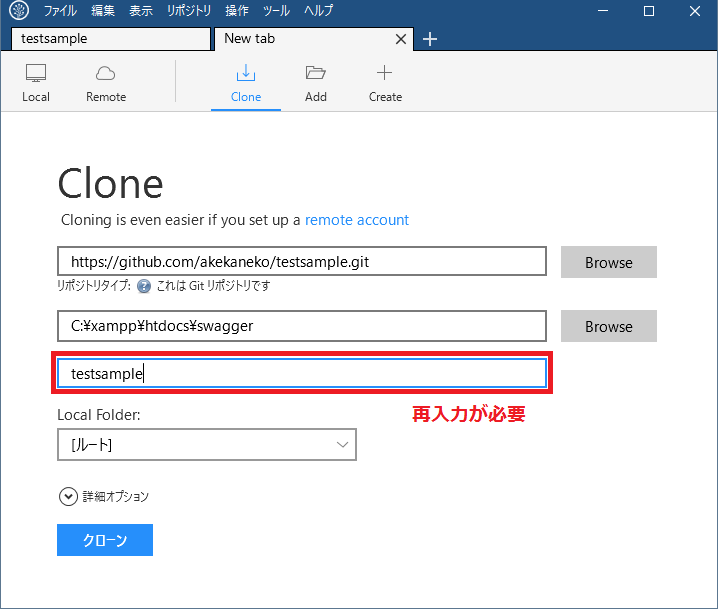
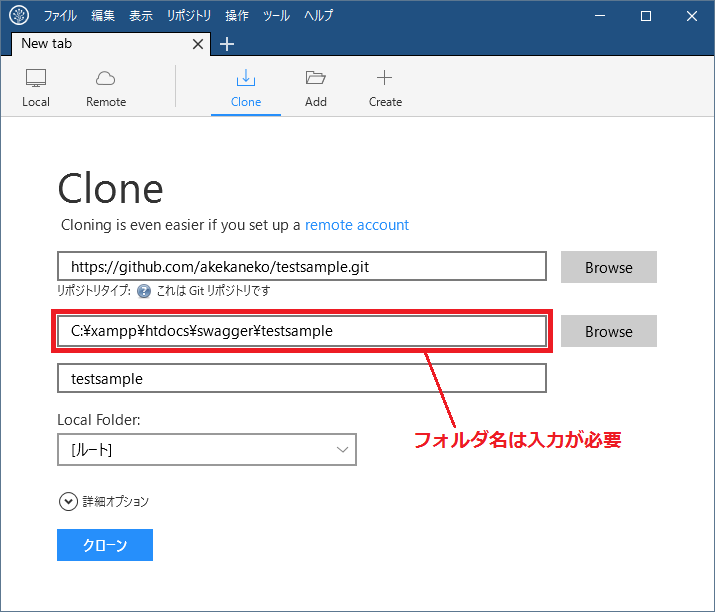
add mdfile, and image update #13 by kaneko

diff --git a/SourceTreeClone.md b/SourceTreeClone.md
@@ -1,0 +1,37 @@
+# クローンでフォルダのないパスを指定した場合
+
+SourceTreeでリポジトリをクローンする際、あらかじめフォルダを用意していなかった場合、新規作成してくれるか検証する
+
+1. リポジトリの作成
+
+    新規リポジトリをGitHubに作成
+
+    https://github.com/akekaneko/testsample.git
+
+1. SourceTreeでクローンする画面を表示
+
+    SourceTreeで、
+
+    ファイル＞新規／クローンを作成する
+
+    元のパス・URLに
+
+    https://github.com/akekaneko/testsample.git
+
+    を入力し、タブキーを押すと以下の状態となる。
+
+    ![画像1](https://github.com/akekaneko/swagger-sample/blob/master/images/SourceTreeClone_01.png "画像")
+
+1. クローンボタンを押すと、以下のフォルダが新規作成される。
+
+    C:\Users\a_kaneko\Documents\testsample
+
+
+**別フォルダ指定の場合は?**
+
+SourceTreeでクローンする際、デフォルトフォルダではなく、別のフォルダを指定する場合は、最終的に作りたいフォルダ名を入力する必要があるが、フォルダは新規作成される。
+
+![画像2](https://github.com/akekaneko/swagger-sample/blob/master/images/SourceTreeClone_02.png "画像")
+
+クローンボタンを押すと、以下のフォルダが新規作成される。
+C:\xampp\htdocs\swagger\testsample
